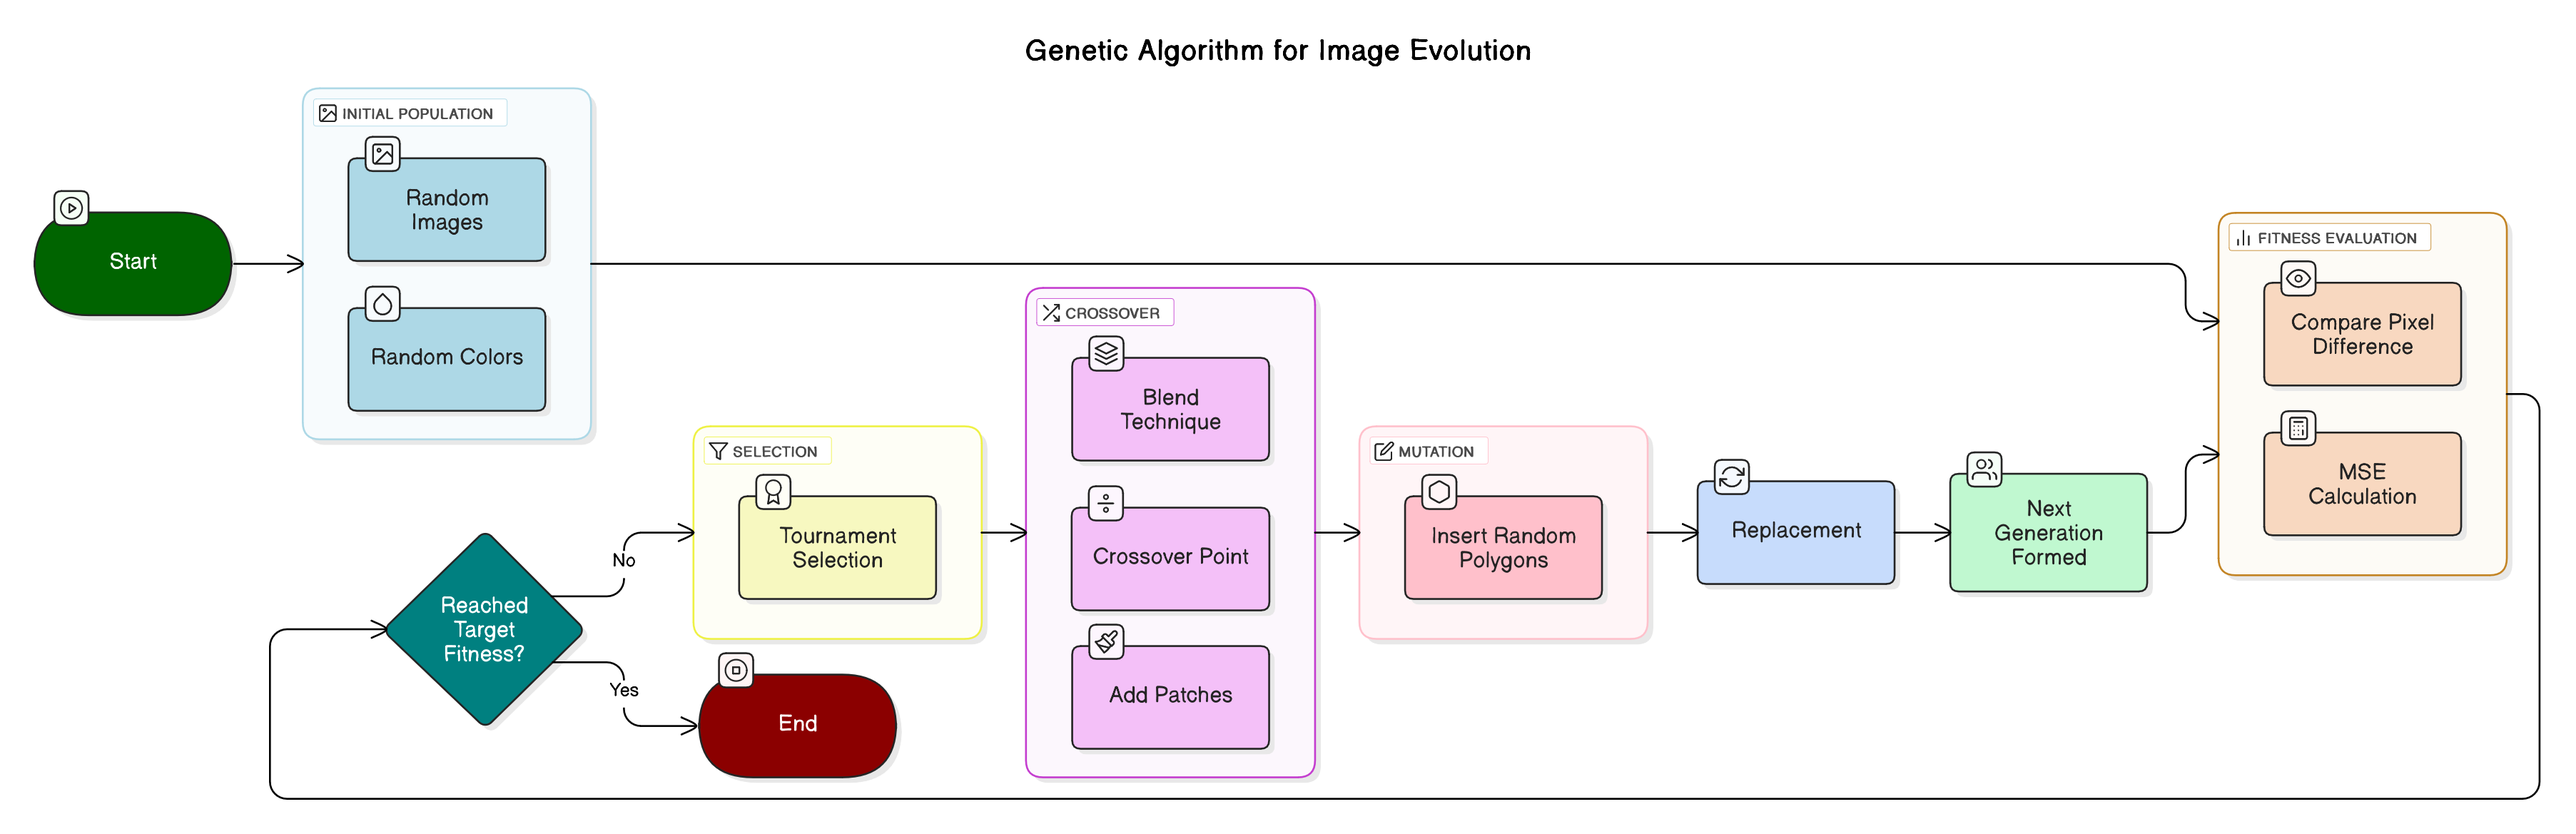
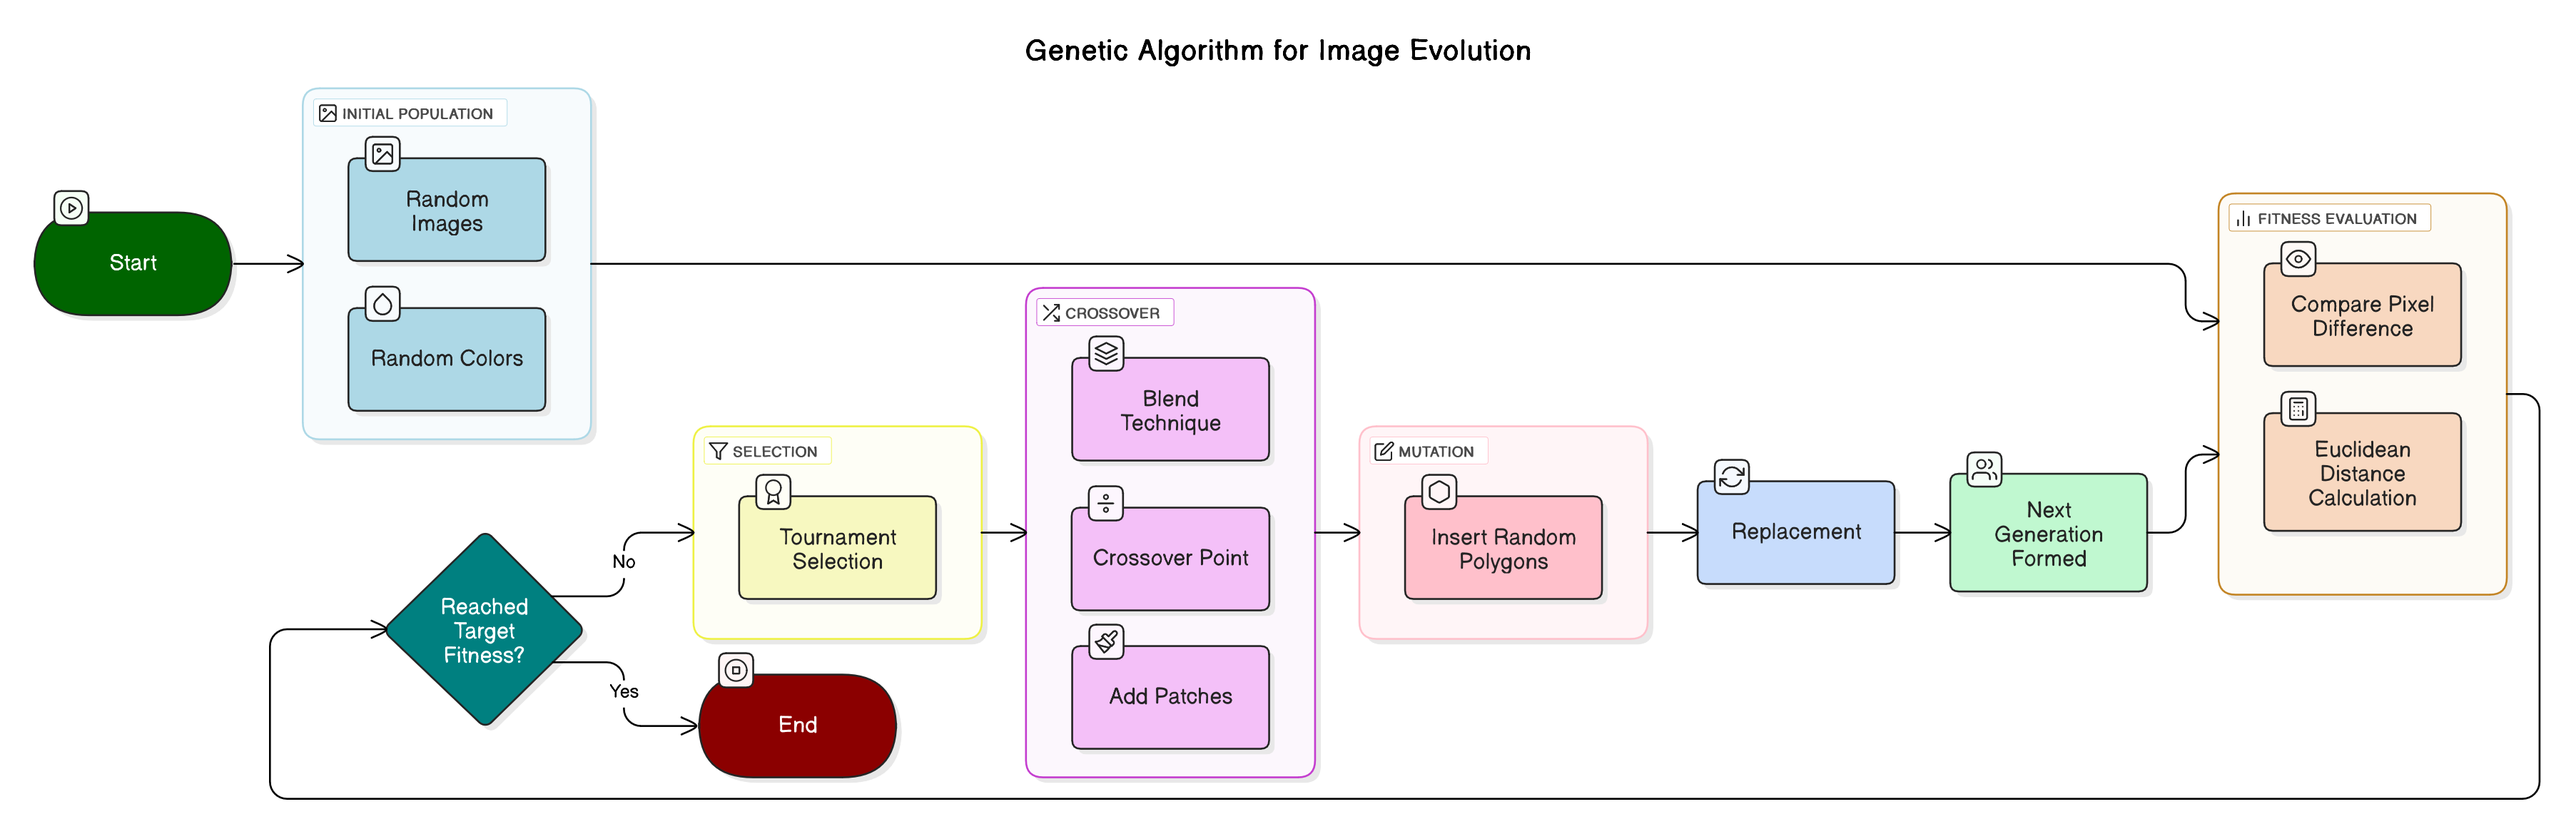
code cleanup and reduced use of magic numbers

diff --git a/genetic/mutation.go b/genetic/mutation.go
@@ -10,6 +10,28 @@ import (
 	"github.com/fogleman/gg"
 )
 
+const (
+	// Mutation History
+	mutationHistorySize int = 10
+
+	// Adaptive Strategy Parameters
+	minMutationRateFloor     float64 = 0.01
+	minMutationRateScale     float64 = 0.2
+	maxMutationRateScale     float64 = 5.0
+	maxMutationRateCeiling   float64 = 0.4
+	defaultDiversityFactor   float64 = 0.5
+	plateauFitnessThreshold  float64 = 0.01
+	plateauDurationThreshold int     = 5
+
+	// Mutation Application Parameters
+	minMutationIterations              = 1
+	maxMutationIterationsBase          = 3
+	radicalMutationExtraIterations     = 3
+	minPolygonPoints               int = 3
+	maxPolygonPoints               int = 6
+	highMutationExtraPoints        int = 2
+)
+
 // MutationHistory tracks fitness progress over time.
 type MutationHistory struct {
 	history      []float64
@@ -32,7 +54,7 @@ func (mh *MutationHistory) Record(avgFitness, bestFitness float64) {
 	mh.history[mh.index] = avgFitness
 	mh.index = (mh.index + 1) % mh.size
 
-	if mh.lastBest > 0 && mathutil.Abs(bestFitness-mh.lastBest) < 0.01 {
+	if mh.lastBest > 0 && mathutil.Abs(bestFitness-mh.lastBest) < plateauFitnessThreshold {
 		mh.plateauCount++
 	} else {
 		mh.plateauCount = 0
@@ -52,20 +74,18 @@ func (mh *MutationHistory) GetImprovementScore() float64 {
 }
 
 type AdaptiveMutationStrategy struct {
-	baseRate        float64
-	diversityFactor float64
-	minRate         float64
-	maxRate         float64
-	history         *MutationHistory
+	baseRate float64
+	minRate  float64
+	maxRate  float64
+	history  *MutationHistory
 }
 
 func NewAdaptiveMutationStrategy(baseMutationRate float64) *AdaptiveMutationStrategy {
 	return &AdaptiveMutationStrategy{
-		baseRate:        baseMutationRate,
-		diversityFactor: 0.5,
-		minRate:         mathutil.Max(0.01, 0.2*baseMutationRate),
-		maxRate:         mathutil.Min(5.0*baseMutationRate, 0.4),
-		history:         NewMutationHistory(10),
+		baseRate: baseMutationRate,
+		minRate:  mathutil.Max(minMutationRateFloor, minMutationRateScale*baseMutationRate),
+		maxRate:  mathutil.Min(maxMutationRateCeiling, maxMutationRateScale*baseMutationRate),
+		history:  NewMutationHistory(mutationHistorySize),
 	}
 }
 
@@ -143,12 +163,14 @@ func (ga *GeneticAlgorithm) Mutate(ind *Individual) *Individual {
 	}
 
 	child := ind.CreateCopy()
-	iterations := rand.Intn(3) + 1
-
-	// Check if we should do a more radical mutation based on stagnation
-	if rand.Float64() < ga.MutationRate*2 && ga.MutationRate > 0.1 {
-		iterations += rand.Intn(3)
-	}
+	iterations := func() int {
+		it := mathutil.RandomBetween(minMutationIterations, maxMutationIterationsBase)
+		// Check if we should do a more radical mutation based on stagnation
+		if ga.MutationRate > 0.1 && rand.Float64() < ga.MutationRate*2 {
+			it += rand.Intn(radicalMutationExtraIterations)
+		}
+		return it
+	}()
 
 	// Create a channel to collect polygons from goroutines
 	polygonChan := make(chan Polygon, iterations)
@@ -173,10 +195,13 @@ func (ga *GeneticAlgorithm) Mutate(ind *Individual) *Individual {
 			regionLimit = mathutil.Clamp(regionLimit, 1, maxLimit)
 			// fmt.Printf("scale: %v, divisor: %v, limit: %v, mut: %v\n", scaleFactor, divisor, regionLimit, ga.MutationRate)
 
-			numPoints := rand.Intn(4) + 3
-			if ga.MutationRate > 0.1 {
-				numPoints = rand.Intn(6) + 3 // Allow more complex polygons when stagnating
-			}
+			numPoints := func() int {
+				n := mathutil.RandomBetween(minPolygonPoints, maxPolygonPoints)
+				if ga.MutationRate > 0.1 {
+					n += highMutationExtraPoints
+				}
+				return n
+			}()
 
 			regionX := rand.Intn(child.Image.Bounds().Dx())
 			regionY := rand.Intn(child.Image.Bounds().Dy())
@@ -223,12 +248,12 @@ func (ga *GeneticAlgorithm) Mutate(ind *Individual) *Individual {
 // 4. Higher when stuck on a plateau
 func (ams *AdaptiveMutationStrategy) computeMutationRate(stagnation, diversity, progress float64) float64 {
 	stagnationFactor := 1.0 + stagnation*2.0
-	diversityFactor := 1.0 + (1.0-diversity)*ams.diversityFactor
+	diversityFactor := 1.0 + (1.0-diversity)*0.5
 	progressFactor := 1.0 - progress*0.7
 	plateauFactor := 1.0
 
 	// Increase mutation rate significantly if stuck on a plateau
-	if ams.history.plateauCount > 5 {
+	if ams.history.plateauCount > plateauDurationThreshold {
 		factor := float64(ams.history.plateauCount) / 10.0
 		if factor > 2.0 {
 			factor = 2.0

diff --git a/genetic/crossover.go b/genetic/crossover.go
@@ -8,15 +8,26 @@ import (
 	"sync"
 )
 
+const (
+	blendCrossoverThreshold    = 0.3
+	pointCrossoverThreshold    = 0.7 // blend + point
+	gaussianCrossoverThreshold = 0.9 // blend + point + gaussian
+
+	patchCrossoverSwapProbability = 0.3
+	patchSize                     = 8
+
+	gaussianNoiseScale = 0.1
+)
+
 func (ga *GeneticAlgorithm) Crossover(parent1 *Individual, parent2 *Individual) (*Individual, *Individual) {
 	var child1, child2 *Individual
 
 	r := rand.Float64()
-	if r < 0.3 {
+	if r < blendCrossoverThreshold {
 		child1, child2 = blendCrossover(parent1, parent2)
-	} else if r < 0.7 {
+	} else if r < pointCrossoverThreshold {
 		child1, child2 = crossoverPoint(parent1, parent2)
-	} else if r < 0.9 {
+	} else if r < gaussianCrossoverThreshold {
 		child1, child2 = gaussianPerturbationCrossover(parent1, parent2)
 	} else {
 		child1, child2 = patchCrossover(parent1, parent2)
@@ -131,7 +142,7 @@ func gaussianPerturbationCrossover(parent1, parent2 *Individual) (*Individual, *
 	}
 
 	bounds := child1.Image.Bounds()
-	noise := rand.NormFloat64() * 0.1 // Small Gaussian noise
+	noise := rand.NormFloat64() * gaussianNoiseScale // Small Gaussian noise
 
 	for y := 0; y < bounds.Dy(); y++ {
 		i := y * child1.Image.Stride
@@ -153,7 +164,7 @@ func gaussianPerturbationCrossover(parent1, parent2 *Individual) (*Individual, *
 // patchCrossover creates two children by swapping rectangular patches between the parents.
 // It works by:
 // - Creating exact copies of both parents
-// - Dividing the image into small patches (8x8 pixels)
+// - Dividing the image into small patches of patchSize
 // - For each patch, having a % chance to swap that patch between the children
 // This method preserves local structure within patches while creating diversity
 // by recombining different regions from both parents.
@@ -162,11 +173,10 @@ func patchCrossover(parent1, parent2 *Individual) (*Individual, *Individual) {
 	child2 := parent2.CreateCopy()
 
 	bounds := child1.Image.Bounds()
-	patchSize := 8
 
 	for y := 0; y < bounds.Dy(); y += patchSize {
 		for x := 0; x < bounds.Dx(); x += patchSize {
-			if rand.Float64() < 0.3 {
+			if rand.Float64() < patchCrossoverSwapProbability {
 				for dy := 0; dy < patchSize && (y+dy) < bounds.Dy(); dy++ {
 					for dx := 0; dx < patchSize && (x+dx) < bounds.Dx(); dx++ {
 						idx := ((y+dy)*bounds.Dx() + (x + dx)) * 4

diff --git a/genetic/individual.go b/genetic/individual.go
@@ -15,9 +15,8 @@ import (
 
 // Individual represents a candidate solution in the genetic algorithm
 type Individual struct {
-	Fitness  float64
-	Image    *image.RGBA
-	Polygons []Polygon
+	Fitness float64
+	Image   *image.RGBA
 }
 
 // Polygon represents a colored polygon
@@ -46,23 +45,12 @@ func NewIndividual(width, height int) *Individual {
 // CreateCopy creates a deep copy of the individual
 func (ind *Individual) CreateCopy() *Individual {
 	newInd := &Individual{
-		Fitness:  ind.Fitness,
-		Image:    image.NewRGBA(image.Rect(0, 0, ind.Image.Bounds().Dx(), ind.Image.Bounds().Dy())),
-		Polygons: make([]Polygon, len(ind.Polygons)),
+		Fitness: ind.Fitness,
+		Image:   image.NewRGBA(image.Rect(0, 0, ind.Image.Bounds().Dx(), ind.Image.Bounds().Dy())),
 	}
 
 	// Copy image pixels
 	draw.Draw(newInd.Image, newInd.Image.Bounds(), ind.Image, image.Point{}, draw.Src)
-
-	// Copy polygons
-	for i, poly := range ind.Polygons {
-		newPoly := Polygon{
-			Points: make([]image.Point, len(poly.Points)),
-			Color:  poly.Color,
-		}
-		copy(newPoly.Points, poly.Points)
-		newInd.Polygons[i] = newPoly
-	}
 
 	return newInd
 }
@@ -89,8 +77,6 @@ func (ind *Individual) createRandomPolygons() {
 			y := mathutil.Clamp(regionY+rand.Intn(2*region)-region, 0, ind.Image.Bounds().Dy()-1)
 			polygon.Points[j] = image.Point{X: x, Y: y}
 		}
-
-		ind.Polygons = append(ind.Polygons, polygon)
 
 		// Draw the polygon
 		dc := gg.NewContextForRGBA(ind.Image)

diff --git a/main.go b/main.go
@@ -13,6 +13,11 @@ import (
 	"github.com/bishal0602/chaotic-canvas/imageio"
 )
 
+const (
+	compressedImageDimension       int = 540
+	defaultProgressUpdateFrequency int = 100
+)
+
 func main() {
 	cfg, err := config.Load()
 	if err != nil {
@@ -35,7 +40,7 @@ func main() {
 		log.Fatalf("error reading target image: %v", err)
 	}
 	if !cfg.NoCompress {
-		img = imageio.Resize(img, 540)
+		img = imageio.Resize(img, compressedImageDimension)
 	}
 	// Create output directory for images
 	if err := os.MkdirAll(cfg.OutDir, 0755); err != nil {
@@ -43,7 +48,6 @@ func main() {
 	}
 
 	recv := make(chan genetic.ImageResult)
-	recvEvery := 100
 	go func() {
 		for result := range recv {
 			outPath := filepath.Join(cfg.OutDir, fmt.Sprintf("best_gen_%d.png", result.Generation))
@@ -62,7 +66,7 @@ func main() {
 	}
 
 	startTime := time.Now()
-	bestIndividual, err := algorithm.Run(recv, recvEvery)
+	bestIndividual, err := algorithm.Run(recv, defaultProgressUpdateFrequency)
 	if err != nil {
 		log.Fatalf("Error running genetic algorithm: %v\n", err)
 	}

diff --git a/genetic/selection.go b/genetic/selection.go
@@ -4,8 +4,11 @@ import (
 	"math/rand"
 )
 
+const (
+	numTournaments = 4 // Number of mini-tournaments to run in TournamentSelect
+)
+
 func TournamentSelect(population []*Individual, tournamentSize int) *Individual {
-	numTournaments := 4
 	var best *Individual
 
 	for i := 0; i < numTournaments; i++ {

diff --git a/README.md b/README.md
@@ -29,7 +29,7 @@ The genetic algorithm implemented in this project follows the following flowchar
    - A population of random images is generated. Each image is created by using a random background colors and adding polygons with random colors and positions.
 
 2. **Fitness Evaluation**:
-   - The fitness of each individual is calculated using **Mean Squared Error (MSE)** between the individual's image and the target image. Lower fitness values indicate a closer match to the target.
+   - The fitness of each individual is calculated by computing the average Euclidean distance between the RGBA values of the individual's image and the target image. Lower fitness values indicate a closer match to the target.
 
 3. **Selection**:
    - **Tournament Selection** is used to choose parents for reproduction. A subset of the population is randomly selected, and the individual with the best fitness in the subset is chosen as a parent. This method balances exploration and exploitation by introducing randomness while favoring fitter individuals.
